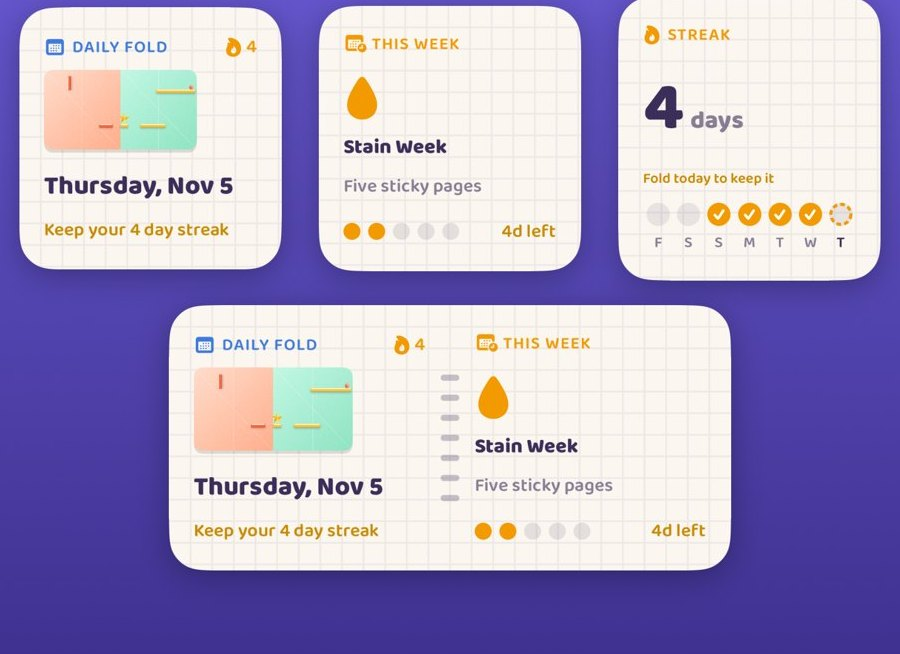
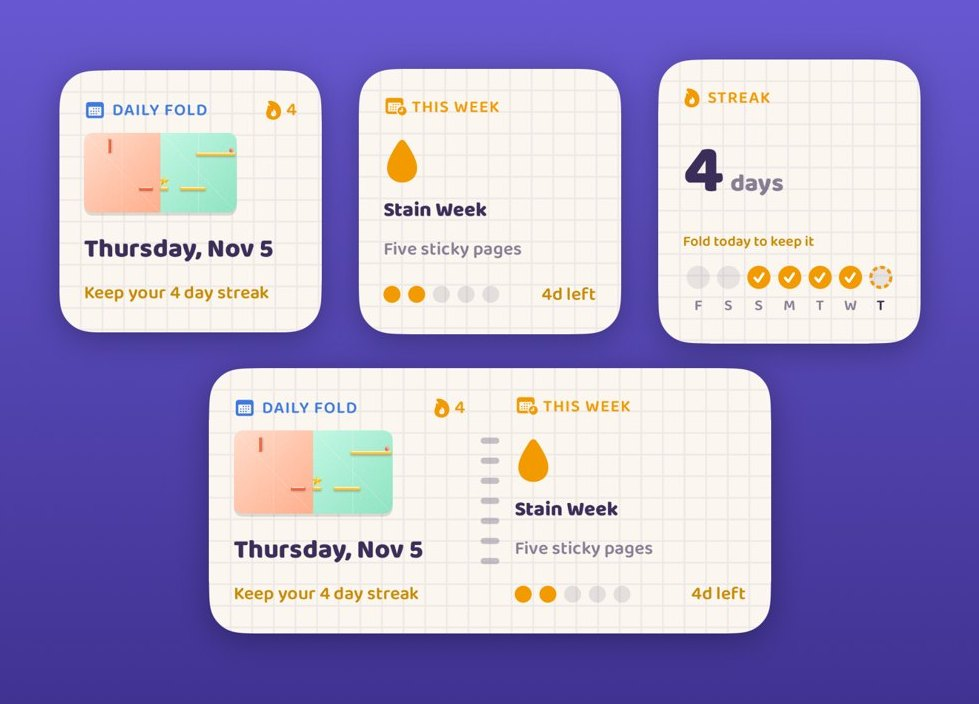
Even padding around the widgets picture; put the Duo line break in place

diff --git a/assets/site.css b/assets/site.css
@@ -119,7 +119,7 @@ section.feature { position: relative; padding: 46px 0; }
 /* The big closing page */
 .closing { text-align: center; padding: 48px 34px; }
 .closing h2 { font-size: clamp(32px, 5vw, 48px); margin-bottom: 8px; }
-.closing p { color: var(--ink-soft); font-size: 18px; max-width: 560px; margin: 0 auto 24px; }
+.closing p { color: var(--ink-soft); font-size: 18px; max-width: 640px; margin: 0 auto 24px; }
 .closing img.icon { width: 120px; height: 120px; border-radius: 28px; margin: 0 auto 16px; box-shadow: 0 14px 28px rgba(21,13,58,.35); }
 
 footer { padding: 34px 0 44px; color: rgba(255,255,255,.7); }

diff --git a/index.html b/index.html
@@ -163,7 +163,7 @@
     <div class="page spiral closing">
       <img class="icon" src="assets/icon.png" alt="The Crease app icon">
       <h2>Made for iPhone Duo</h2>
-      <p>Close your Duo a little and the page folds with it. On any other iPhone, drag the page over.</p>
+      <p>Close your Duo a little and the page folds with it.<br>On any other iPhone, drag the page over.</p>
       <a class="btn" href="https://apps.apple.com/app/id6830244063">Get Crease</a>
     </div>
   </section>
